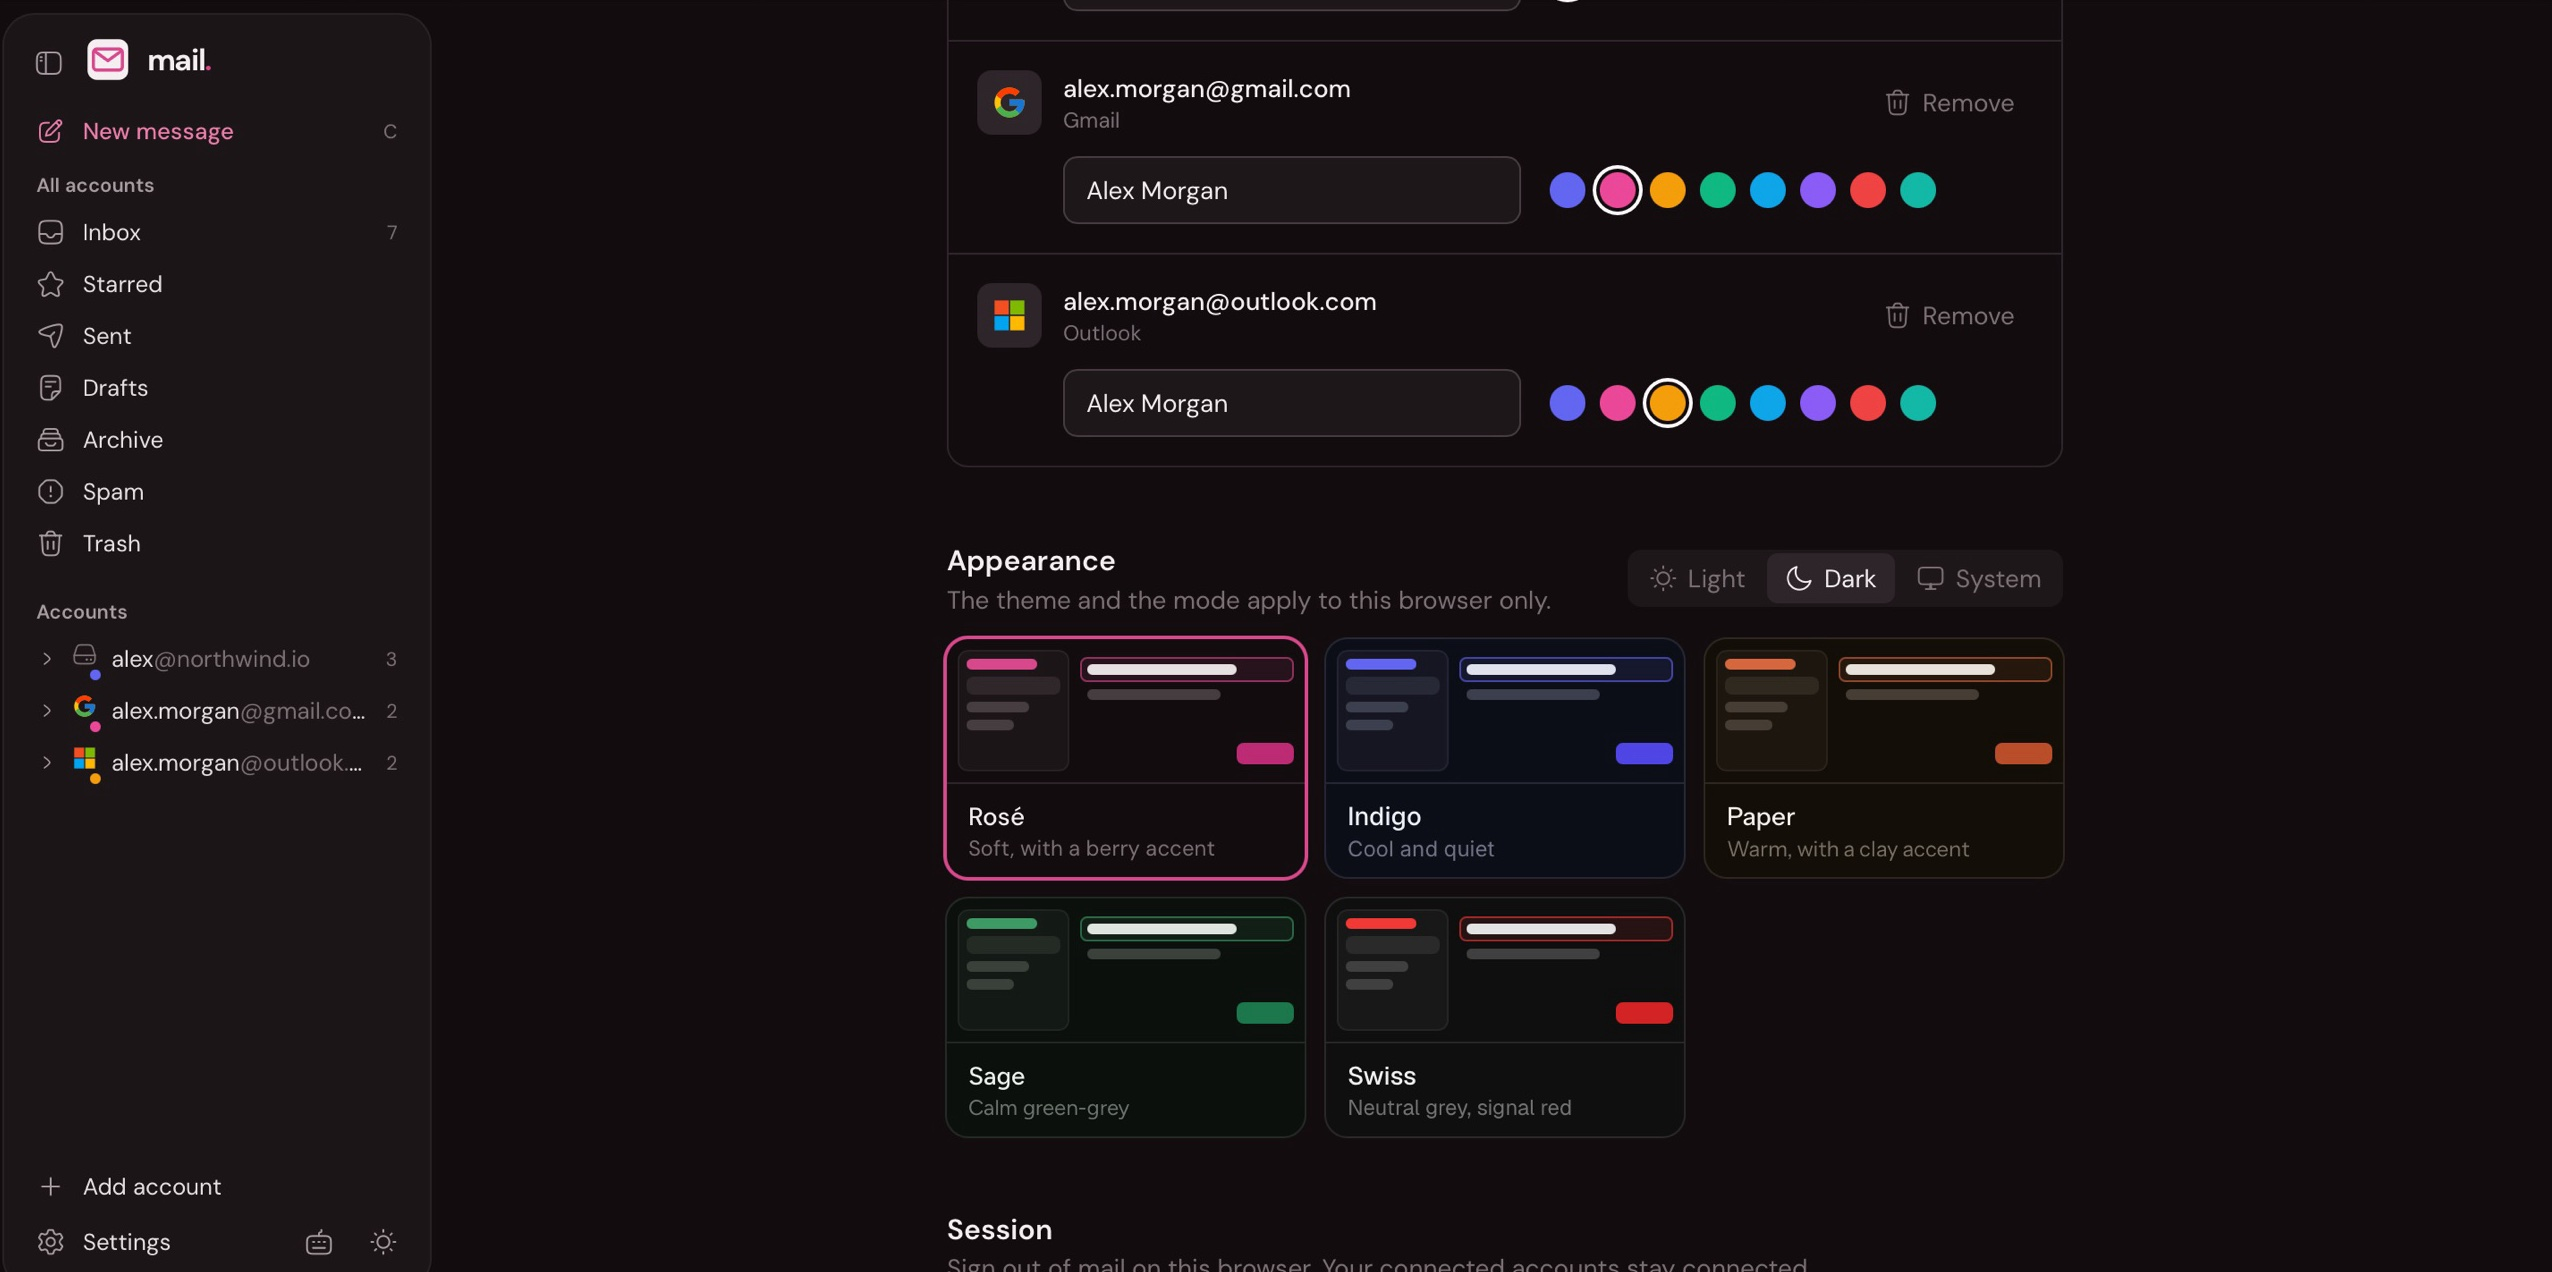
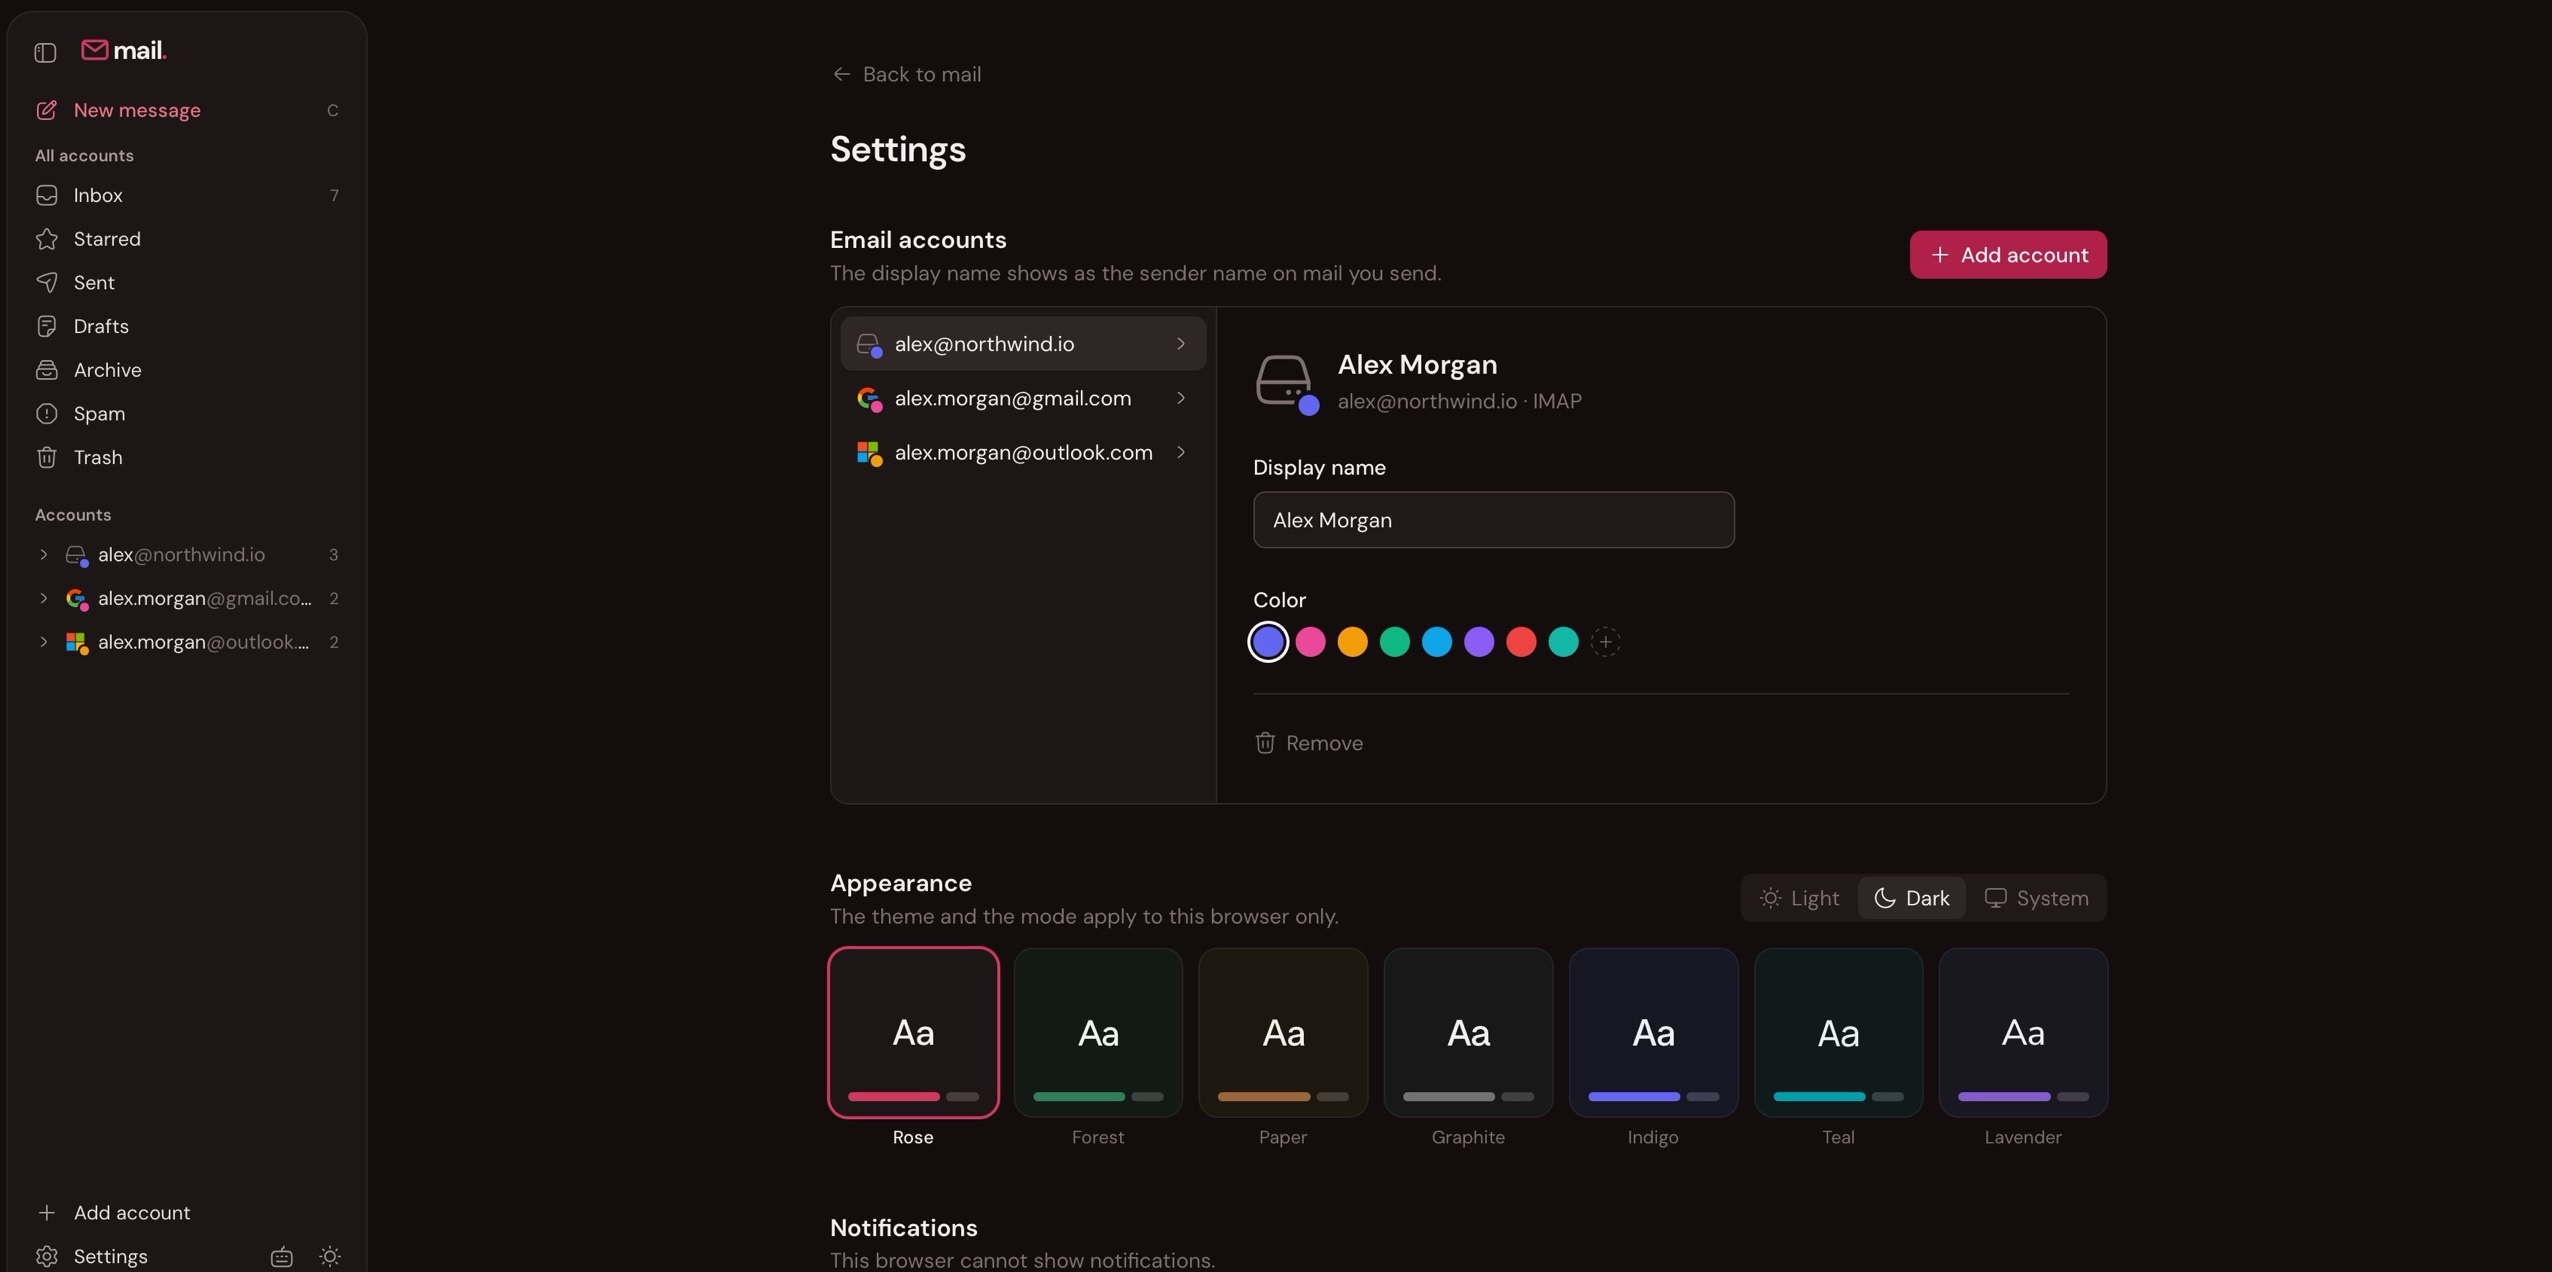
Refresh the README screenshots
The screenshots show the new account list in Settings and the current color themes.

diff --git a/README.md b/README.md
@@ -8,7 +8,7 @@ A keyboard-first email client with one inbox for all your accounts.
 
 ![The light theme](docs/screenshots/light.jpg)
 
-![The color themes in Settings](docs/screenshots/themes.jpg)
+![The email accounts and the color themes in Settings](docs/screenshots/themes.jpg)
 
 ```sh
 pnpm install
